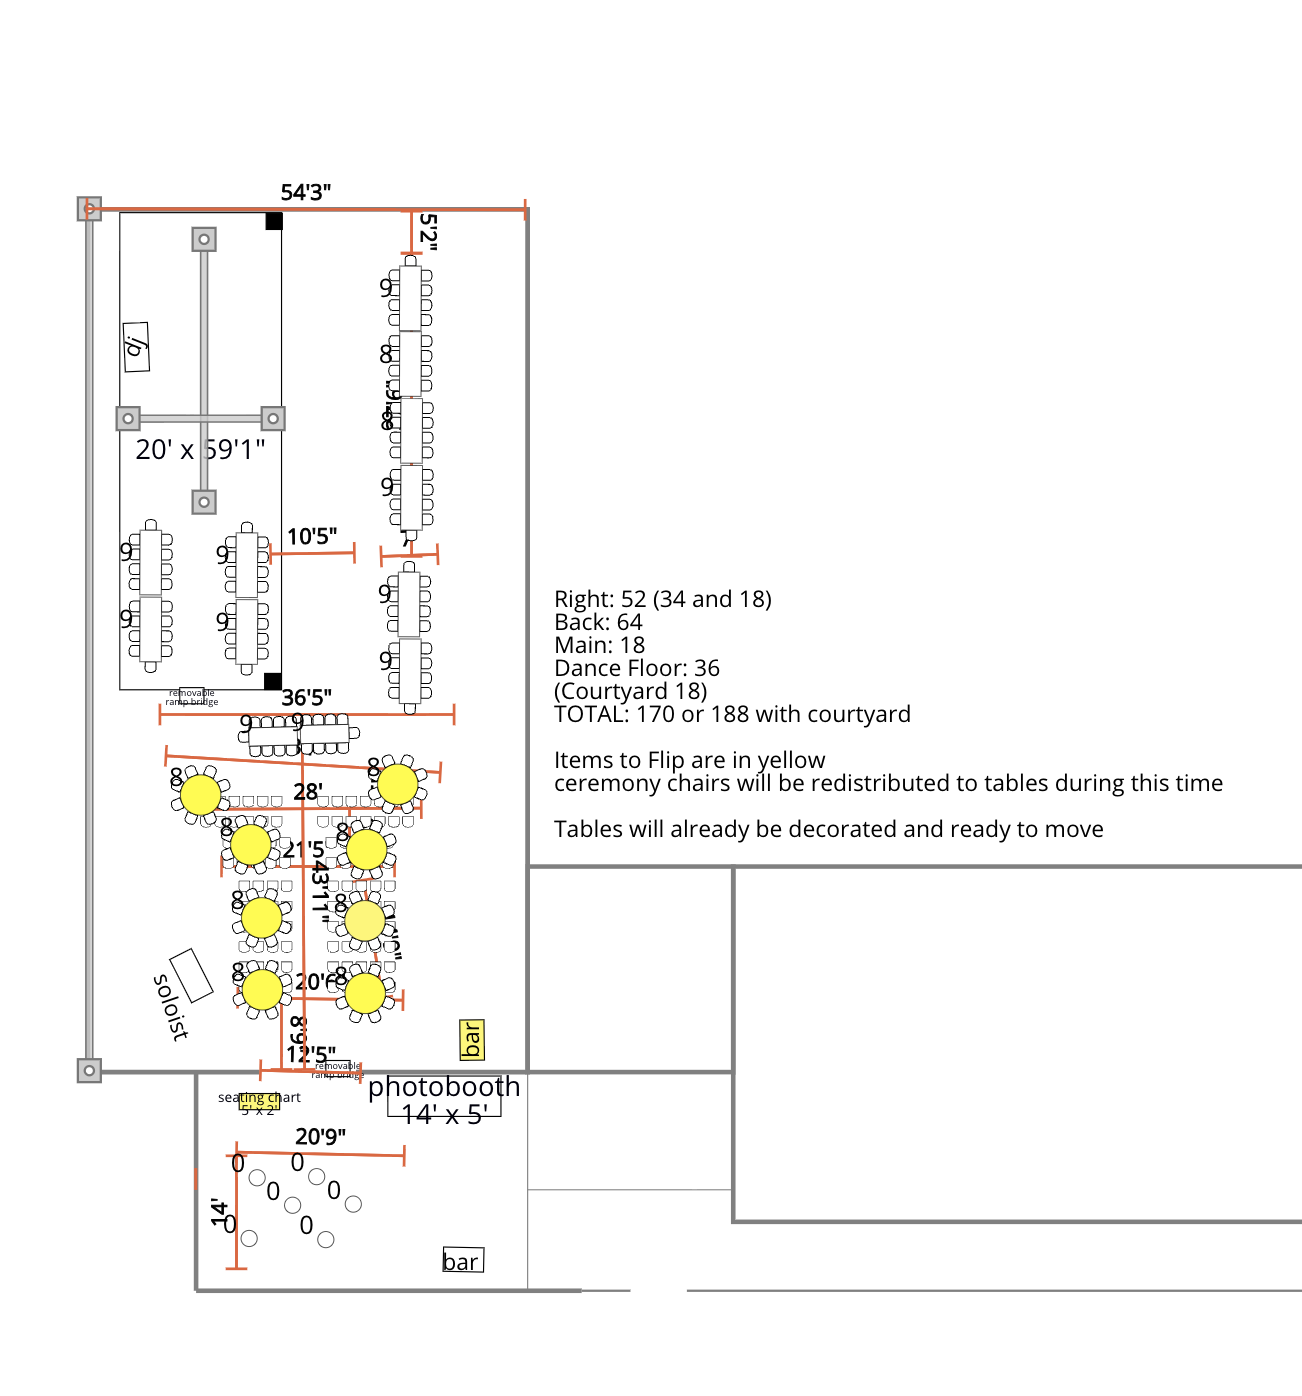
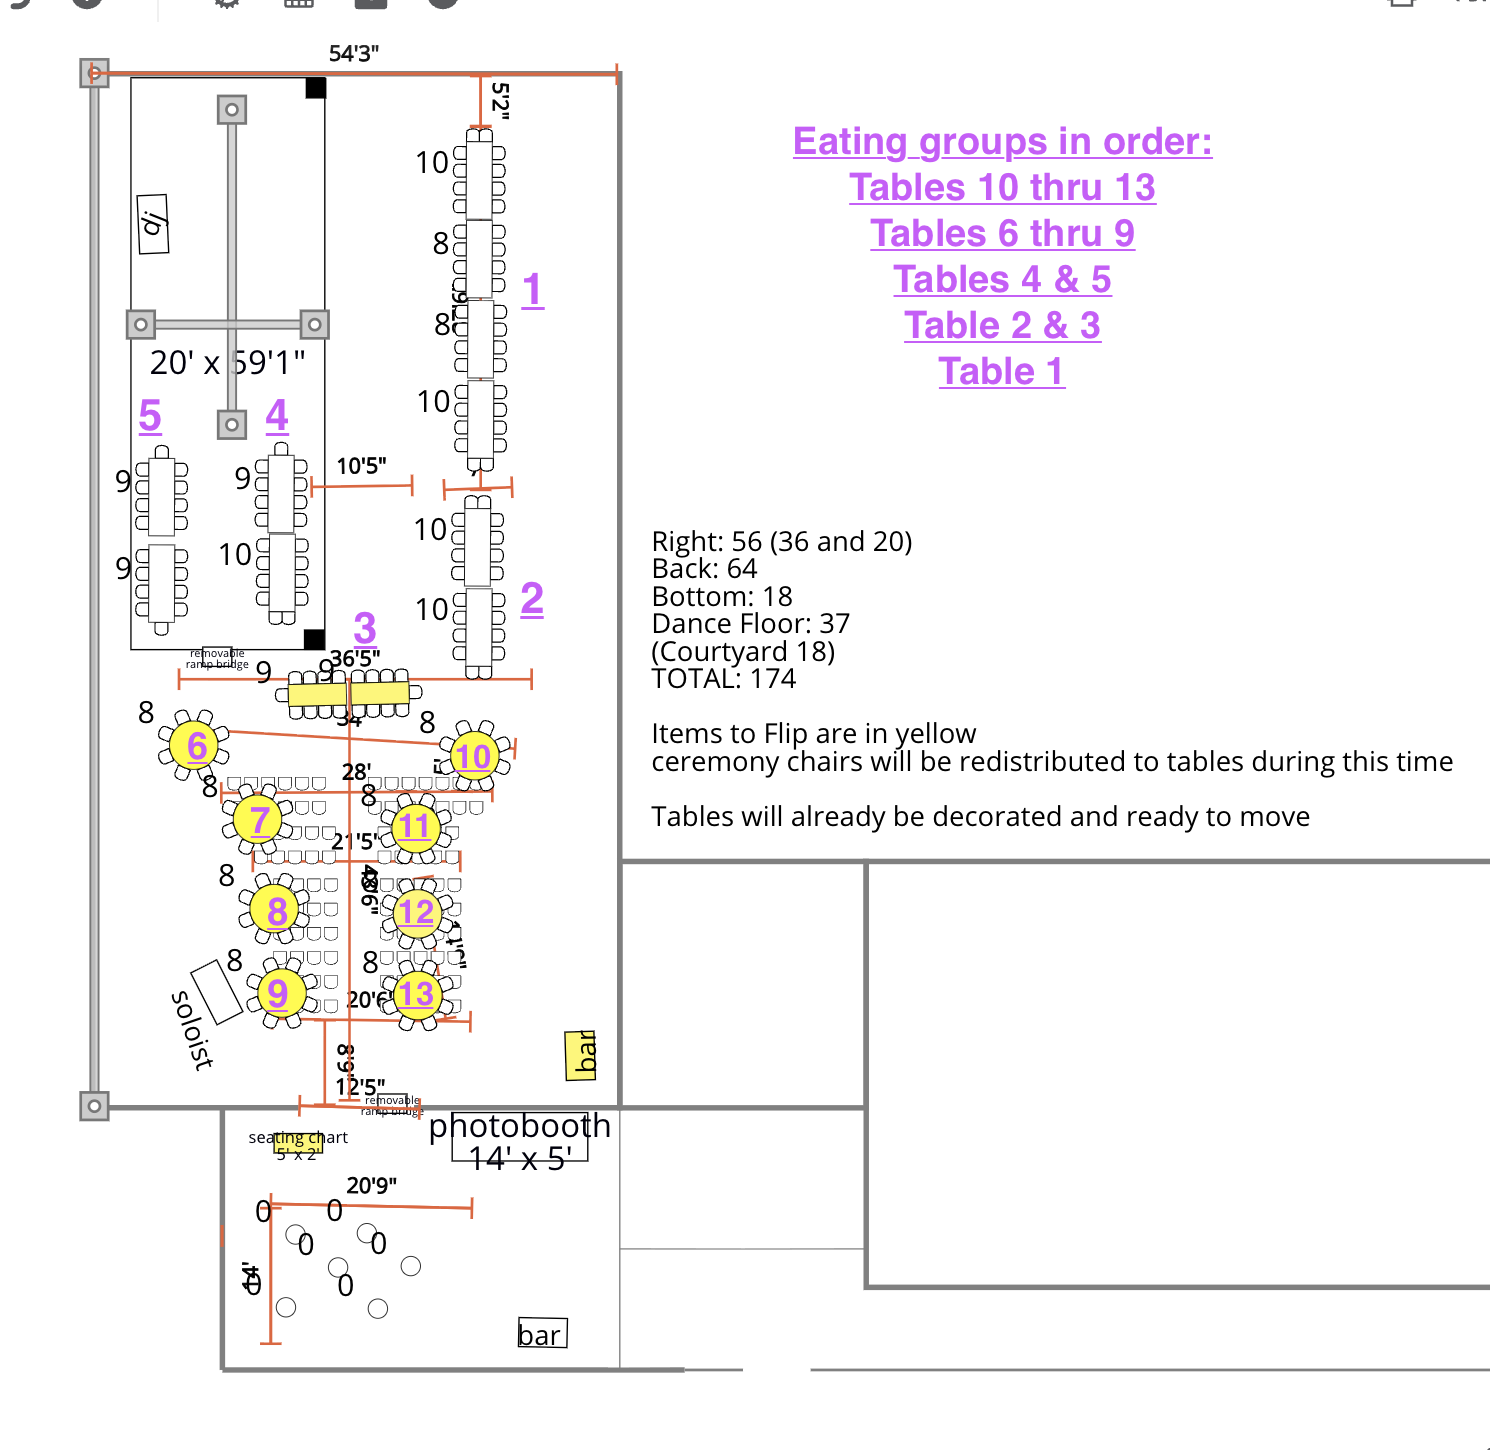
Replace venue map with new combined layout image
New map includes both venue layout and eating groups. Consolidated
two separate image cards into one in both the overview and documents
sections.

Changed region(s): [[0.0307, 0.0, 1.0, 0.9549], [0.5223, 0.0924, 0.8295, 0.2772], [0.553, 0.9241, 1.0, 0.9549]]

diff --git a/index.html b/index.html
@@ -193,16 +193,9 @@
             </div>
 
             <div class="quick-card">
-                <h3>Venue Layout</h3>
+                <h3>Venue Layout & Eating Groups</h3>
                 <a href="documents/venue-layout.png" target="_blank">
-                    <img src="documents/venue-layout.png" alt="Venue Layout" style="width:100%;border-radius:4px;">
-                </a>
-            </div>
-
-            <div class="quick-card">
-                <h3>Eating Groups / Table Layout</h3>
-                <a href="documents/eating-groups-layout.jpg" target="_blank">
-                    <img src="documents/eating-groups-layout.jpg" alt="Eating Groups for Buffet" style="width:100%;border-radius:4px;">
+                    <img src="documents/venue-layout.png" alt="Venue Layout & Eating Groups" style="width:100%;border-radius:4px;">
                 </a>
             </div>
 
@@ -219,16 +212,9 @@
             <h2>Documents</h2>
 
             <div class="quick-card">
-                <h3>Venue Layout</h3>
+                <h3>Venue Layout & Eating Groups</h3>
                 <a href="documents/venue-layout.png" target="_blank">
-                    <img src="documents/venue-layout.png" alt="Venue Layout" style="width:100%;border-radius:4px;margin-bottom:15px;">
-                </a>
-            </div>
-
-            <div class="quick-card">
-                <h3>Eating Groups / Table Layout</h3>
-                <a href="documents/eating-groups-layout.jpg" target="_blank">
-                    <img src="documents/eating-groups-layout.jpg" alt="Eating Groups for Buffet" style="width:100%;border-radius:4px;margin-bottom:15px;">
+                    <img src="documents/venue-layout.png" alt="Venue Layout & Eating Groups" style="width:100%;border-radius:4px;margin-bottom:15px;">
                 </a>
             </div>
 
